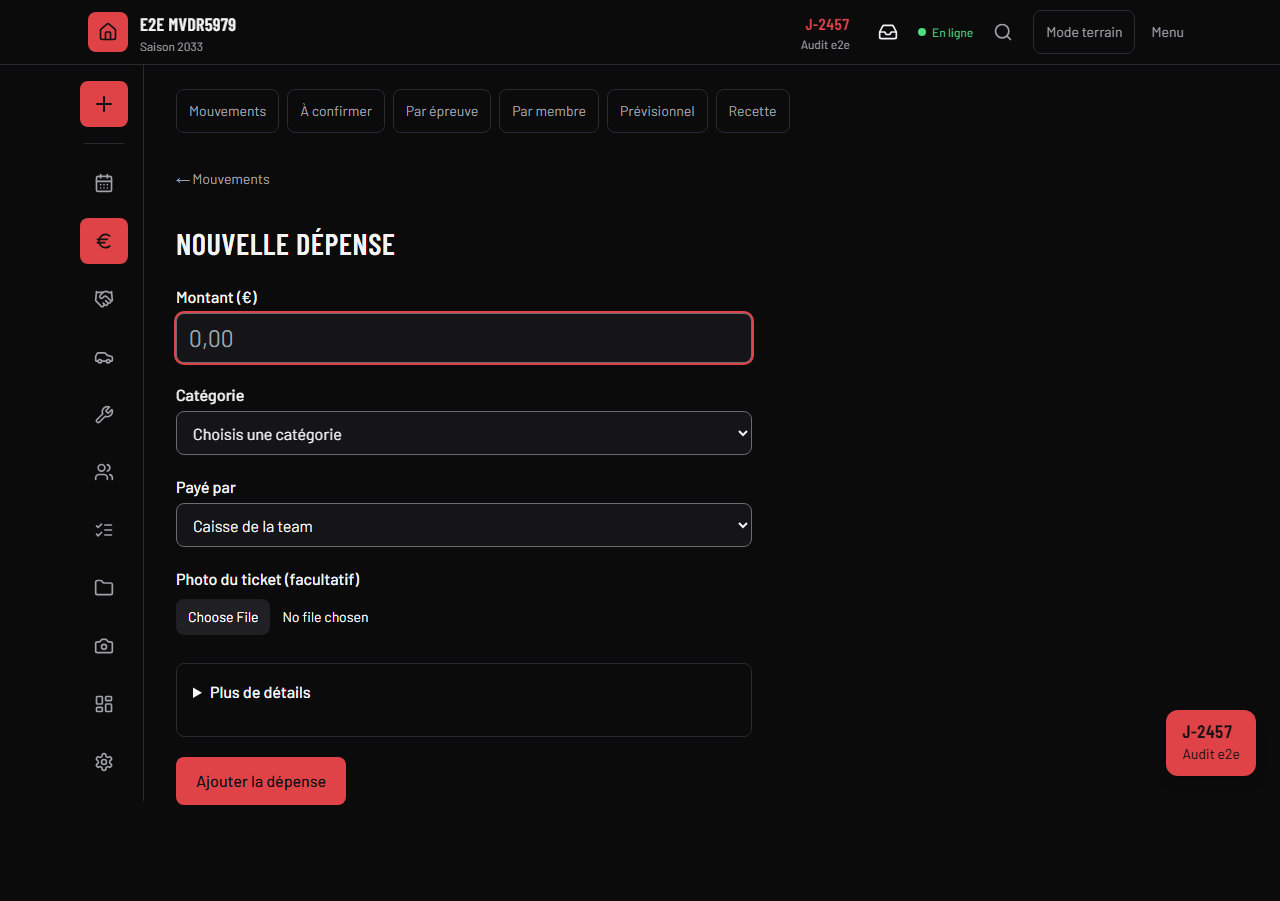
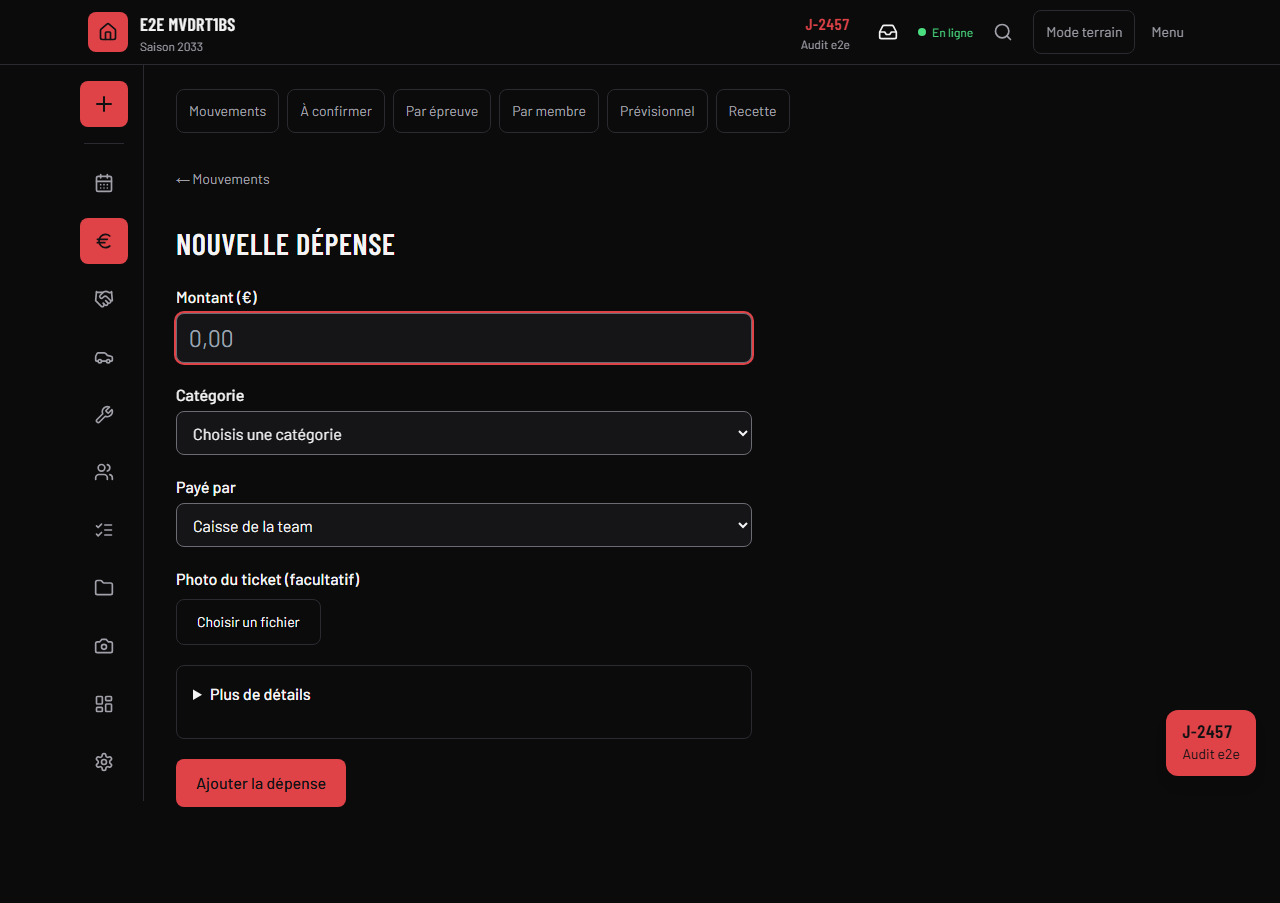
Fichiers : finitions visuelles du champ fichier (3.1)
- Champ fichier en français : input natif caché (sr-only) relié à un <label htmlFor> en BOUTON_SECONDAIRE (« Choisir une photo » ou « Choisir un fichier »), focus visible via peer-focus-visible. Avec un fichier : vignette ou nom, puis « Remplacer » et « Retirer ».
- Formulaire de preuve : « Preuve : un lien ou un fichier », « Lien de la preuve », « ou un fichier ».
- Capture fichiers-identite : attente du titre Identité et du champ du logo.
- e2e et doc mis à jour pour le nouveau libellé du champ preuve.

diff --git a/src/components/formulaire/champ-fichier.tsx b/src/components/formulaire/champ-fichier.tsx
@@ -4,7 +4,7 @@ import { useId, useRef, useState, type ChangeEvent } from "react"
 import { FileText } from "lucide-react"
 
 import { useEtatSynchro } from "@/core/synchro/client/react"
-import { LIEN } from "@/lib/classes-formulaire"
+import { BOUTON_SECONDAIRE, LIEN } from "@/lib/classes-formulaire"
 
 import { Message } from "./message"
 import { preparerFichier } from "./preparer-fichier"
@@ -49,6 +49,8 @@ export function ChampFichier({
   disabled = false,
 }: ChampFichierProps) {
   const identifiant = useId()
+  const idLibelle = `${identifiant}-libelle`
+  const idChoix = `${identifiant}-choix`
   const etat = useEtatSynchro()
   const entree = useRef<HTMLInputElement>(null)
   const [envoi, setEnvoi] = useState(false)
@@ -58,6 +60,9 @@ export function ChampFichier({
   const horsLigne = !etat.enLigne
   const bloque = disabled || envoi || horsLigne
   const estImage = (typeValeur ?? "image/*").startsWith("image/")
+  // Le bouton dit « photo » seulement quand le champ n'accepte que des images.
+  const seulesImages = accept.split(",").every((type) => type.trim().startsWith("image/"))
+  const libelleChoix = seulesImages ? "Choisir une photo" : "Choisir un fichier"
 
   async function envoyer(fichier: File) {
     setErreur(null)
@@ -95,12 +100,12 @@ export function ChampFichier({
 
   return (
     <div className="flex flex-col gap-2">
-      <label htmlFor={identifiant} className="font-medium">
+      <span id={idLibelle} className="font-medium">
         {libelle}
-      </label>
+      </span>
 
       {valeur && (
-        <div className="flex items-center gap-3">
+        <div className="flex flex-wrap items-center gap-3">
           {/* Vignette ou nom : ouvre le fichier dans un nouvel onglet. */}
           <a href={`/api/fichiers/${valeur}`} target="_blank" rel="noopener noreferrer" aria-label={`${libelle} : ouvrir dans un nouvel onglet`} className="cible-tactile inline-flex items-center">
             {estImage ? (
@@ -112,12 +117,17 @@ export function ChampFichier({
               </span>
             )}
           </a>
+          <button type="button" onClick={() => entree.current?.click()} disabled={bloque} className={LIEN}>
+            Remplacer
+          </button>
           <button type="button" onClick={retirer} disabled={envoi || disabled} className={LIEN}>
             {libelleRetirer}
           </button>
         </div>
       )}
 
+      {/* L'input natif est caché : le bouton visible est le <label> qui le désigne. L'input reste au clavier,
+          et son focus s'affiche sur le bouton (peer-focus-visible). Quand un fichier est là, « Remplacer » le remplace. */}
       <input
         ref={entree}
         id={identifiant}
@@ -125,8 +135,20 @@ export function ChampFichier({
         accept={accept}
         onChange={quandChoisi}
         disabled={bloque}
-        className="cible-tactile text-sm file:mr-3 file:rounded-md file:border-0 file:bg-surface-2 file:px-3 file:py-2"
+        tabIndex={valeur ? -1 : undefined}
+        aria-labelledby={valeur ? idLibelle : `${idLibelle} ${idChoix}`}
+        className="peer sr-only"
       />
+      {!valeur && (
+        <label
+          id={idChoix}
+          htmlFor={identifiant}
+          aria-disabled={bloque || undefined}
+          className={`${BOUTON_SECONDAIRE} inline-flex w-fit items-center peer-focus-visible:ring-2 peer-focus-visible:ring-ring ${bloque ? "pointer-events-none opacity-50" : "cursor-pointer"}`}
+        >
+          {libelleChoix}
+        </label>
+      )}
 
       {envoi && (
         <p role="status" className="text-sm text-texte-discret">

diff --git a/e2e/fichiers.spec.ts b/e2e/fichiers.spec.ts
@@ -65,6 +65,9 @@ test("l. logo : envoyé dans Identité, affiché dans la barre haute, puis retir
 
   await expect(page.locator('header img[src^="/api/fichiers/"]')).toBeVisible()
   await expect.poll(() => logoEquipeEnBase(equipe)).not.toBeNull()
+  // La rubrique se rend après le rechargement : on attend son titre et le champ du logo avant la capture.
+  await expect(page.getByRole("heading", { name: "Identité" })).toBeVisible()
+  await expect(page.getByText("Logo de la team")).toBeVisible()
   await page.screenshot({ path: path.join(DOSSIER, "fichiers-identite-1440x900.png"), fullPage: true })
 
   // Un membre assistance n'a aucun accès à Réglages : il voit quand même le logo courant de sa team.
@@ -145,8 +148,9 @@ test("l. preuve : un PDF joint à un résultat s'ouvre par « Voir la preuve »"
   await page.getByRole("button", { name: "Enregistrer le résultat" }).click()
   await expect(page.getByText("Enregistré.").first()).toBeVisible()
 
-  const formulaire = page.locator("form", { has: page.getByLabel("Fichier de preuve (facultatif)") })
-  await formulaire.getByLabel("Fichier de preuve (facultatif)").setInputFiles(PREUVE)
+  // Le champ fichier est l'input caché relié à « ou un fichier » : setInputFiles marche même caché.
+  const formulaire = page.locator("form", { has: page.getByLabel("ou un fichier") })
+  await formulaire.getByLabel("ou un fichier").setInputFiles(PREUVE)
   await expect(formulaire.getByText("preuve.pdf")).toBeVisible()
   await page.screenshot({ path: path.join(DOSSIER, "fichiers-preuve-1440x900.png"), fullPage: true })
   await formulaire.getByRole("button", { name: "Joindre la preuve" }).click()

diff --git a/src/apps/saison/composants/resultats.tsx b/src/apps/saison/composants/resultats.tsx
@@ -152,13 +152,14 @@ export function FormulairePreuve({ entryId, lienActuel }: { entryId: string; lie
   return (
     <form action={action} className="flex flex-col gap-3">
       <input type="hidden" name="entryId" value={entryId} />
+      <p className="font-medium">Preuve : un lien ou un fichier</p>
       <div className="flex flex-col gap-1">
-        <Label htmlFor={`preuve-${entryId}`}>Preuve : lien ou fichier</Label>
+        <Label htmlFor={`preuve-${entryId}`}>Lien de la preuve</Label>
         <Input id={`preuve-${entryId}`} name="preuveLien" type="url" defaultValue={lienActuel ?? ""} className={CHAMP} />
       </div>
       <ChampFichier
         app="saison"
-        libelle="Fichier de preuve (facultatif)"
+        libelle="ou un fichier"
         valeur={fichier?.id ?? null}
         typeValeur={fichier?.mimeType ?? null}
         nomValeur={fichier?.nom ?? null}

diff --git a/docs/fichiers.md b/docs/fichiers.md
@@ -48,6 +48,7 @@ Le middleware ne redirige pas `/api/fichiers` vers la connexion (comme `/api/syn
 
 `<ChampFichier app="budget" libelle="Photo du ticket" valeur={id ou null} typeValeur={mime} nomValeur={nom} onChange={(fichier) => …} name="justificatifFileId" />`
 
+- Affichage : l'`<input type="file">` natif est caché (`sr-only`) et reste au clavier. Le bouton visible est un `<label htmlFor>` en `BOUTON_SECONDAIRE` : « Choisir une photo » si `accept` ne contient que des images, « Choisir un fichier » sinon. Le focus clavier s'affiche sur ce bouton (`peer-focus-visible`). Avec un fichier : vignette ou nom, puis « Remplacer » et « Retirer » (liens `LIEN`), sans bouton de choix.
 - L'envoi part dès le choix (`fetch("/api/fichiers")`). Pendant l'envoi : « Envoi… », et le champ ne se contrôle pas.
 - Photos (JPEG, PNG, WebP) de plus de 1,5 Mo ou de plus de 2 000 px : redessinées à 2 000 px au plus, JPEG à 0,85 (`preparer-fichier.ts`). PDF et SVG partent tels quels.
 - Après l'envoi : vignette de 64 px pour une image, nom du fichier pour un PDF. Les deux ouvrent le fichier dans un nouvel onglet. « Retirer » vide la valeur (`libelleRetirer` pour le libellé).
@@ -59,7 +60,7 @@ Le middleware ne redirige pas `/api/fichiers` vers la connexion (comme `/api/syn
 
 - **Logo** (Réglages, Identité) : écrit avec la team dans une transaction (`sauverIdentite`). Affiché dans la barre haute et l'aperçu des couleurs (`src/components/qg/logo-team.tsx`). Si l'image ne charge pas, l'icône QG revient.
 - **Ticket** (Budget) : facultatif dans « Nouvelle dépense » (son id part avec l'écriture locale, dans `justificatifFileId`) et dans la fiche de dépense (ajout ou remplacement, par le formulaire de modification existant). Création, modification et synchro rattachent le ticket dans leur transaction (`poserJustificatif`).
-- **Preuve** (Saison) : « Preuve : lien ou fichier ». Un lien ou un fichier suffit. Le fichier s'ouvre par « Voir la preuve » dans la fiche d'épreuve et la fiche d'engagement. Un résultat avec seulement un fichier n'est pas « sans preuve ».
+- **Preuve** (Saison) : « Preuve : un lien ou un fichier », avec le champ « Lien de la preuve » et le champ fichier « ou un fichier ». Un lien ou un fichier suffit. Le fichier s'ouvre par « Voir la preuve » dans la fiche d'épreuve et la fiche d'engagement. Un résultat avec seulement un fichier n'est pas « sans preuve ».
 
 ## Pour plus tard
 

diff --git a/documentation/JOURNAL.md b/documentation/JOURNAL.md
@@ -181,3 +181,13 @@
 - Vérifications : vitest 405/405, typecheck, `db:verifier-synchro`, build isolé, e2e complet 80/80 (port 3101). Comptes du journal e2e : P2003 0, P2025 0, `reading 'id'` 0, `ErreurAcces` 0, `TypeError` 0.
 
 - Points d'attention : le log de l'e2e contient deux avertissements, non investigués et sans effet sur les tests : `next start` demande `node .next/standalone/server.js` avec `output: "standalone"`, et le client pg signale un `client.query()` concurrent (DeprecationWarning).
+
+## 18/10/2026 : brief 3.1, finitions visuelles du champ fichier
+
+- Champ fichier en français : l'`<input type="file">` natif est caché (`sr-only`) et reste au clavier. Le bouton visible est un `<label htmlFor>` en `BOUTON_SECONDAIRE` (« Choisir une photo » ou « Choisir un fichier »), avec l'anneau de focus (`peer-focus-visible`). Avec un fichier : vignette ou nom, puis « Remplacer » et « Retirer ». Plus de « Choose File » ni de « No file chosen ».
+
+- Formulaire de preuve : « Preuve : un lien ou un fichier », « Lien de la preuve », puis « ou un fichier ».
+
+- Capture `fichiers-identite` : attente du titre Identité et du champ du logo avant la capture (elle était prise pendant le rechargement).
+
+- Vérifications : vitest 405/405, typecheck, build isolé, e2e complet 80/80 (port 3101). Comptes du journal e2e : P2003 0, P2025 0, `reading 'id'` 0, `ErreurAcces` 0, `TypeError` 0.
